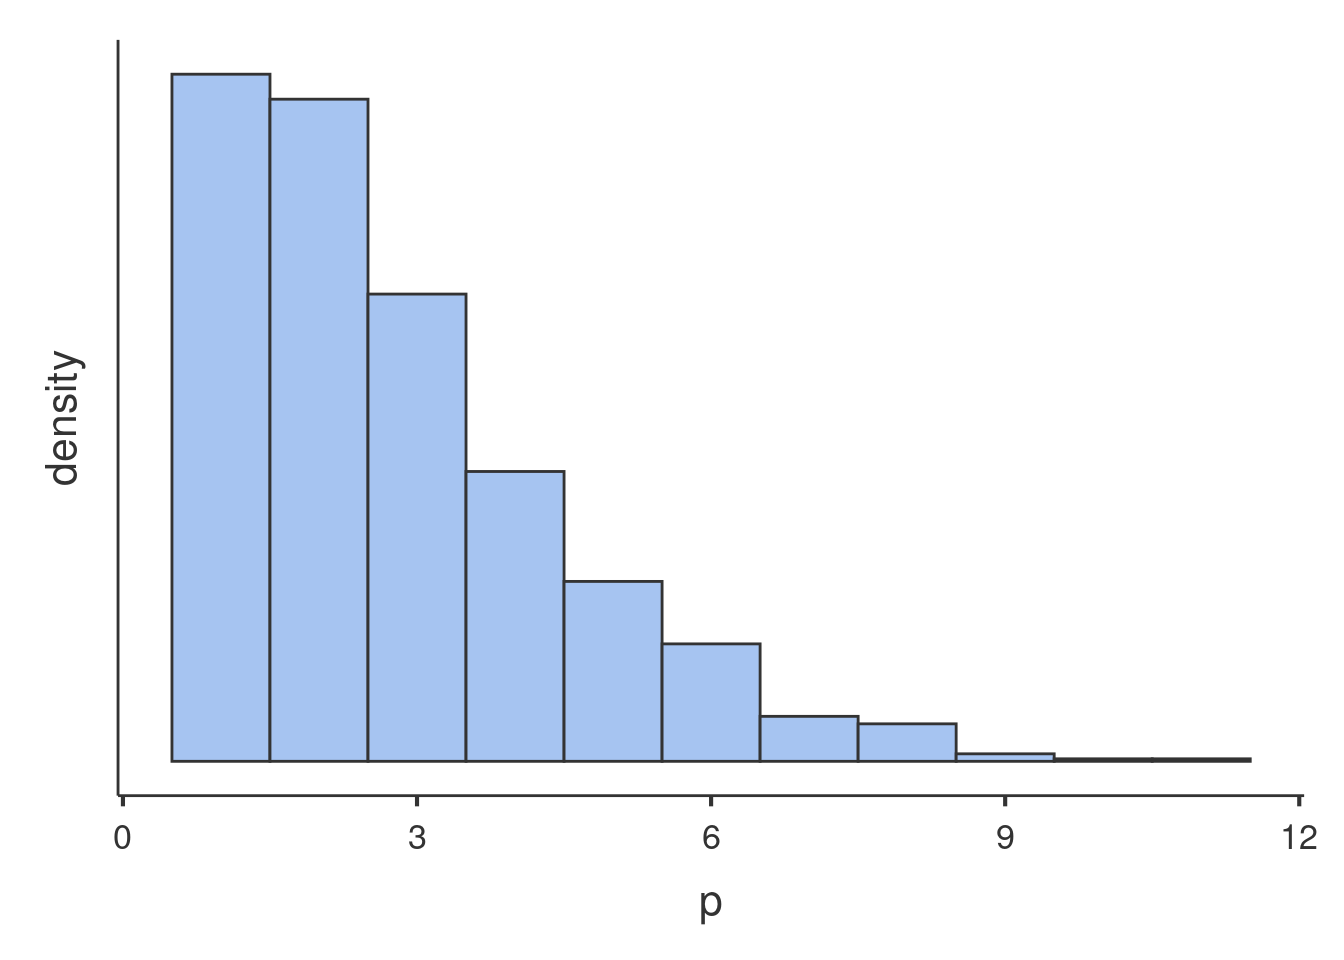
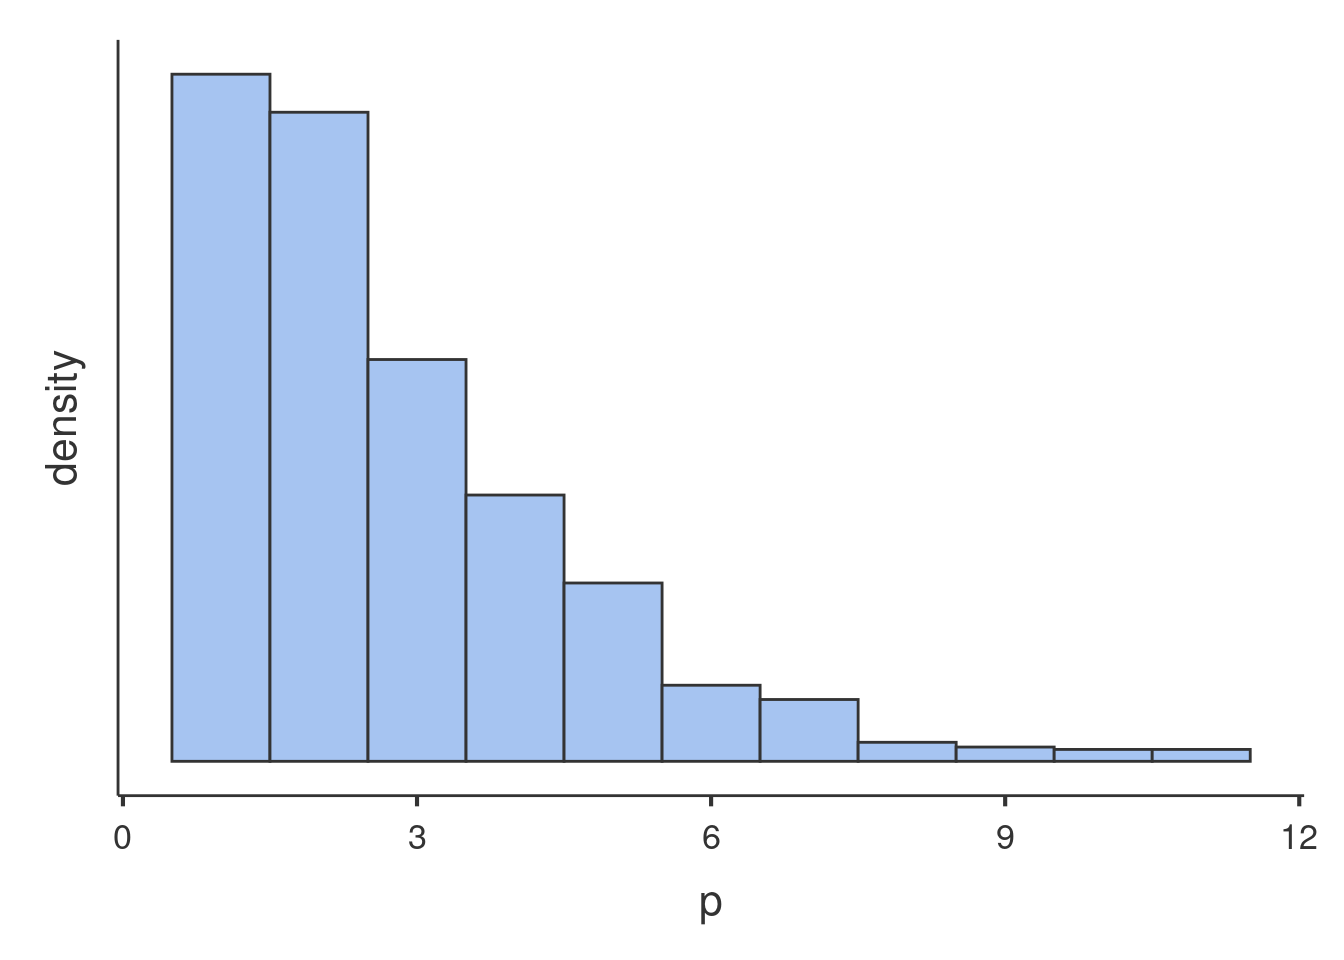
updates

diff --git a/docs/glmmixed_example2.html b/docs/glmmixed_example2.html
@@ -424,8 +424,8 @@ Generalized Linear Model with Poisson distribition may work. However, we
 can check wheather our distribution is in line with the features of the
 Poisson dist by checking its mean and variance. The Poisson distribution
 has variance equal to the mean, in fact the simulated distribution in
-the histogram has <span class="math inline">\(\bar{x}=1.698\)</span> and
-<span class="math inline">\(s^2=1.546\)</span>. The <code>art</code>
+the histogram has <span class="math inline">\(\bar{x}=1.737\)</span> and
+<span class="math inline">\(s^2=1.73\)</span>. The <code>art</code>
 variable distribution has <span
 class="math inline">\(\bar{x}=1.693\)</span> and <span
 class="math inline">\(s^2=3.71\)</span>, with a ratio variance/mean of

diff --git a/docs/rpackage/reference/gamlj_glm.html b/docs/rpackage/reference/gamlj_glm.html
@@ -129,7 +129,7 @@ model terms should be defined as a list in  <code>model_terms</code> option.</p>
 <dt>model_type</dt>
 <dd><p>define the type of model (link function and distribution combination) required.
 It can be <code>linear</code>, <code>poisson</code>, <code>poiover</code>, <code>nb</code>,
-<code>logistic</code>, <code>probit</code>, <code>custom</code>, <code>ordinal</code>, <code>multinomial</code></p></dd>
+<code>logistic</code>, <code>probit</code>, <code>custom</code>, <code>ordinal</code>, <code>multinomial</code>, and <code>beta</code>.</p></dd>
 
 
 <dt>dep</dt>
